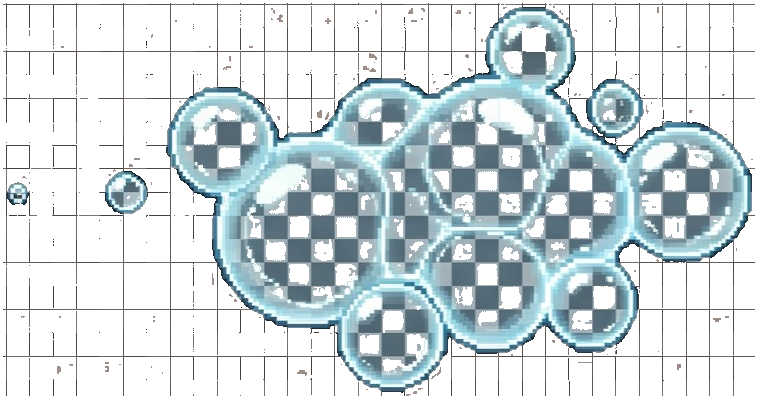
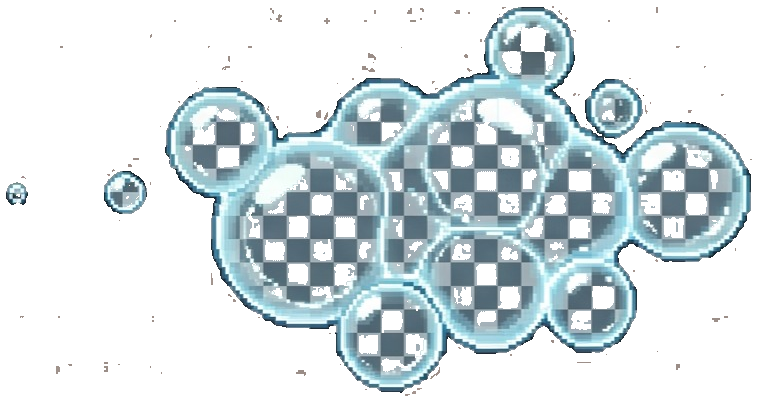
fx görsellerindeki ızgara çizgisi artefaktını temizle, patlama efektini küçült
Checker karelerinin kenarlarındaki yumuşatma pikselleri iki ayrı eşik
aralığımın arasındaki boşluğa düşüp düzenli bir ızgara gibi kalıyordu;
tek sürekli aralığa geçince tüm fx görselleri (baloncuk, iz, patlama)
temizlendi. Yakalama patlaması efekti de biraz küçültüldü.

diff --git a/index.html b/index.html
@@ -666,7 +666,7 @@
   function spawnCatchBurst(x, y, size){
     const b = document.createElement('div');
     b.className = 'catch-burst';
-    const w = size * 1.3;
+    const w = size * 1.05;
     b.style.width = w+'px';
     b.style.height = w+'px';
     b.style.left = x+'px';
@@ -873,7 +873,7 @@
     lastCatchTime = now;
     const points = GOLD_POINTS + Math.min(streak - 1, COMBO_MAX_BONUS);
 
-    spawnCatchBurst(goldFish.x, goldFish.y, goldFish.size * 1.4);
+    spawnCatchBurst(goldFish.x, goldFish.y, goldFish.size * 1.15);
     spawnScorePop(goldFish.x, goldFish.y, 'score-pop gold', `+${points}!`);
     updateScore(points);
     catches++;
